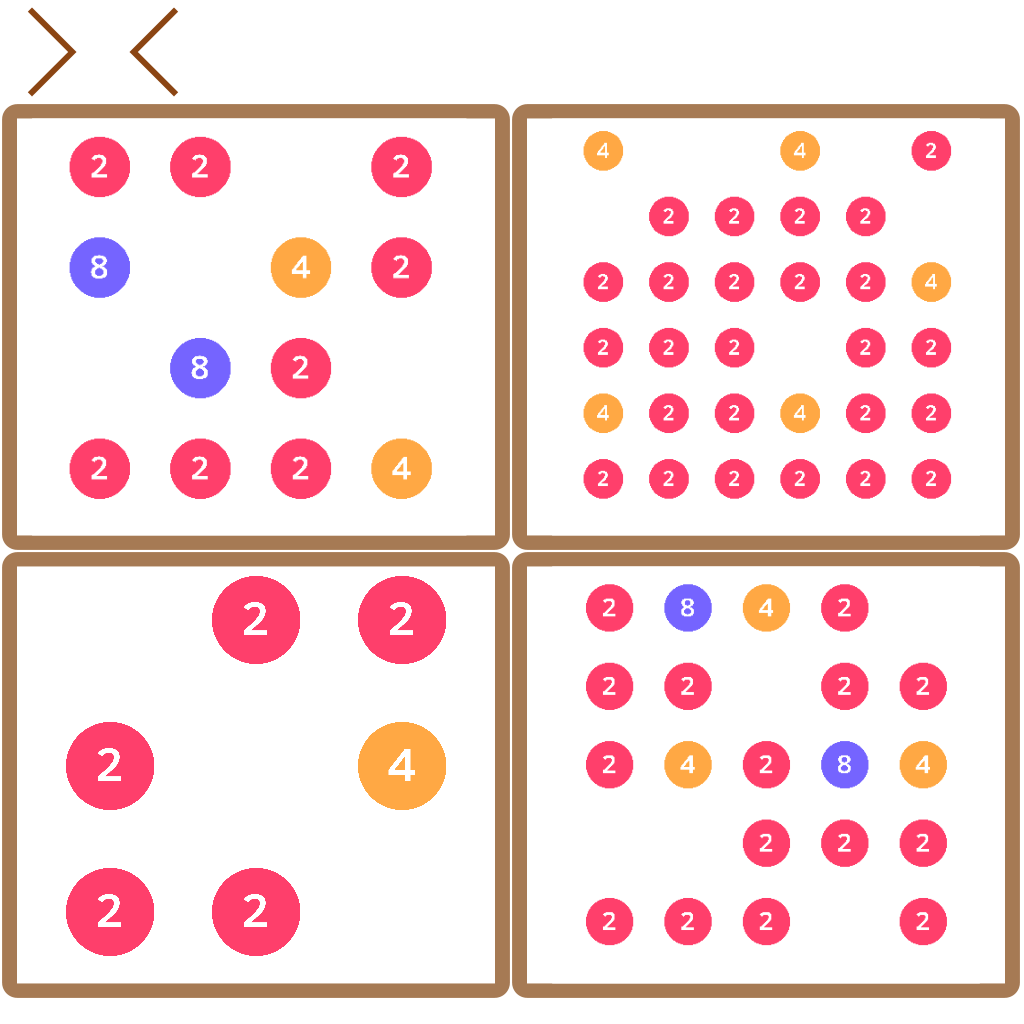
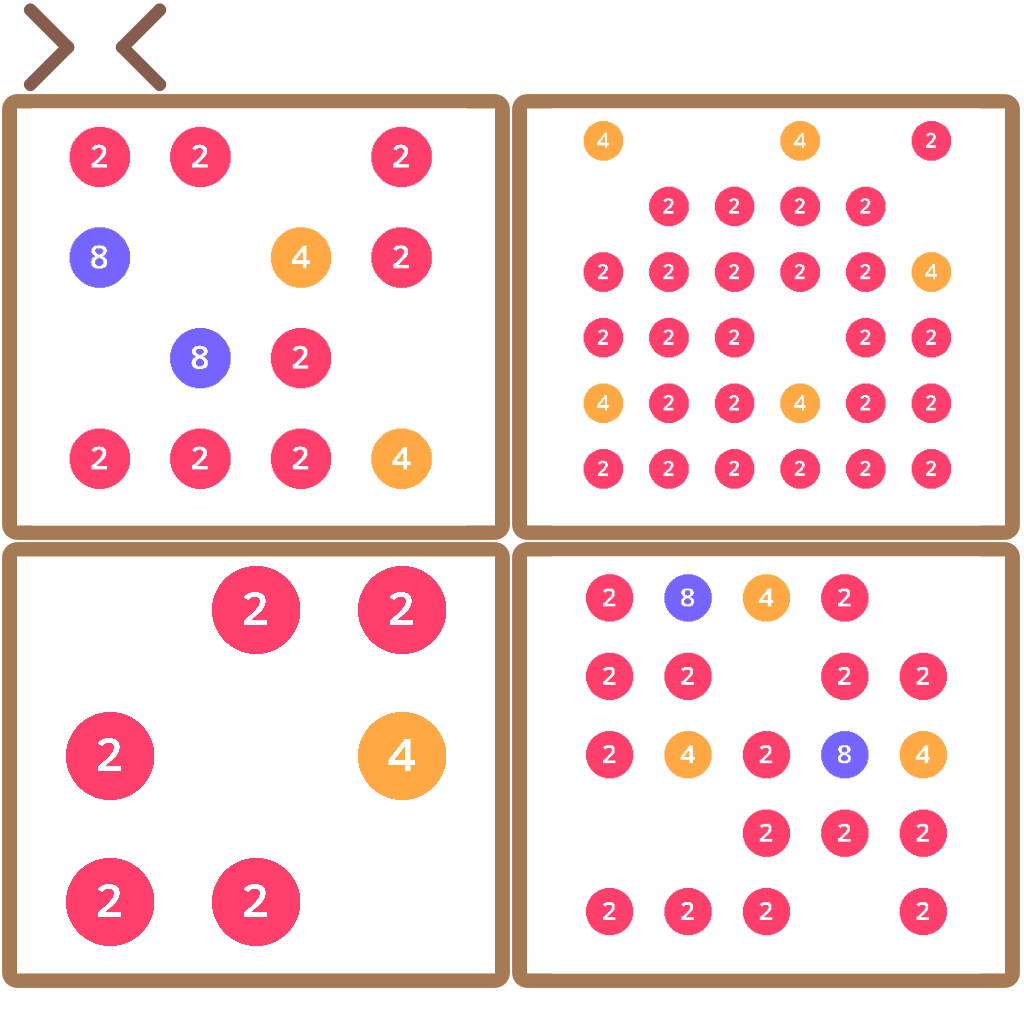
Update menu + Editing Score Screen

Changed region(s): [[0.0, 0.0, 1.0, 1.0], [0.3438, 0.6875, 0.4375, 0.8125], [0.0625, 0.2188, 0.125, 0.3125]]

diff --git a/core/src/com/gdx/game2048/screen/ScoreScreen.java b/core/src/com/gdx/game2048/screen/ScoreScreen.java
@@ -3,7 +3,6 @@ package com.gdx.game2048.screen;
 
 import com.badlogic.gdx.Gdx;
 import com.badlogic.gdx.Input;
-import com.badlogic.gdx.audio.Music;
 import com.badlogic.gdx.graphics.Color;
 import com.badlogic.gdx.graphics.g2d.BitmapFont;
 import com.badlogic.gdx.graphics.g2d.SpriteBatch;
@@ -23,10 +22,10 @@ import javafx.util.Pair;
 import java.util.ArrayList;
 import java.util.LinkedHashMap;
 
-public class MenuScreen extends AbstractScreen {
+public class ScoreScreen extends AbstractScreen {
 
     //Tag for debug
-    private static final String TAG = MenuScreen.class.getSimpleName();
+    private static final String TAG = ScoreScreen.class.getSimpleName();
 
     //Animation constant
     public static final int BASE_ANIMATION_TIME = 100;
@@ -40,10 +39,7 @@ public class MenuScreen extends AbstractScreen {
 
     private TextureAtlas gameAtlas;
 
-    private com.badlogic.gdx.scenes.scene2d.ui.Button nextLevelButton;
-    private com.badlogic.gdx.scenes.scene2d.ui.Button preLevelButton;
-    private com.badlogic.gdx.scenes.scene2d.ui.Button nextAIButton;
-    private com.badlogic.gdx.scenes.scene2d.ui.Button preAIButton;
+    private Button backButton;
     private Image imageLevel;
 
     private int iconPaddingSize;
@@ -75,22 +71,11 @@ public class MenuScreen extends AbstractScreen {
     public void buildStage() {
         batch = new SpriteBatch();
 
-        levelInfo = new LinkedHashMap<Integer, Pair<String, String>>();
-        levelInfo.put(3, new Pair<String, String>("3x3", "3x3"));
-        levelInfo.put(4, new Pair<String, String>("4x4", "4x4"));
-        levelInfo.put(5, new Pair<String, String>("5x5", "5x5"));
-        levelInfo.put(6, new Pair<String, String>("6x6", "6x6"));
-
-        aiInfo = new LinkedHashMap<Integer, String>();
-        aiInfo.put(1, "Dump AI");
-        aiInfo.put(2, "Smart AI");
-        aiInfo.put(3, "Crazy AI");
-
         //Loading asset
         fontGenerator = new FreeTypeFontGenerator(Gdx.files.internal("fonts/ClearSans-Bold.ttf"));
         fontParameter = new FreeTypeFontGenerator.FreeTypeFontParameter();
         //Step 2: TextureAtlas with atlas path
-        gameAtlas = new TextureAtlas("themes/menu.atlas");
+        gameAtlas = new TextureAtlas("themes/score.atlas");
 
         //Step 3: create skin
         gameSkin = new Skin(gameAtlas);
@@ -99,10 +84,7 @@ public class MenuScreen extends AbstractScreen {
         createButton();
 
         //Step 6: add to stage
-        this.addActor(nextLevelButton);
-        this.addActor(preLevelButton);
-        this.addActor(nextAIButton);
-        this.addActor(preAIButton);
+        this.addActor(backButton);
         this.addActor(imageLevel);
 
         for (TextButton line :
@@ -147,17 +129,8 @@ public class MenuScreen extends AbstractScreen {
         float rootLine = height* 0.54f;
         float linePadding = height* 0.1f;
 
-        nextLevelButton.setPosition(screenMidX + buttonPaddingMidX - iconSize_Width/2 , rootLine, Align.center);
-        nextLevelButton.setSize(iconSize_Width, iconSize_Height);
-
-        preLevelButton.setPosition(screenMidX - buttonPaddingMidX + iconSize_Width/2 , rootLine, Align.center);
-        preLevelButton.setSize(iconSize_Width, iconSize_Height);
-
-        nextAIButton.setPosition(screenMidX + buttonPaddingMidX*1.3f - iconSize_Width/2  , rootLine - linePadding*2, Align.center);
-        nextAIButton.setSize(iconSize_Width, iconSize_Height);
-
-        preAIButton.setPosition(screenMidX - buttonPaddingMidX*1.3f + iconSize_Width/2  , rootLine - linePadding*2, Align.center);
-        preAIButton.setSize(iconSize_Width, iconSize_Height);
+        backButton.setPosition(screenMidX + buttonPaddingMidX - iconSize_Width/2 , rootLine, Align.center);
+        backButton.setSize(iconSize_Width, iconSize_Height);
 
         imageLevel.setSize(imageSize, imageSize);
         imageLevel.setPosition(width*0.5f , height*0.78f, Align.center);
@@ -220,39 +193,14 @@ public class MenuScreen extends AbstractScreen {
     private void createButton() {
 
         //Step 4: create button
-        nextLevelButton = new com.badlogic.gdx.scenes.scene2d.ui.Button(gameSkin.getDrawable("ic_next"), gameSkin.getDrawable("ic_next"));
-        preLevelButton = new com.badlogic.gdx.scenes.scene2d.ui.Button(gameSkin.getDrawable("ic_pre"), gameSkin.getDrawable("ic_pre"));
-        nextAIButton = new com.badlogic.gdx.scenes.scene2d.ui.Button(gameSkin.getDrawable("ic_next"), gameSkin.getDrawable("ic_next"));
-        preAIButton = new Button(gameSkin.getDrawable("ic_pre"), gameSkin.getDrawable("ic_pre"));
-        imageLevel = new Image(gameSkin.getDrawable(levelInfo.get(curLevel).getValue()));
+        imageLevel = new Image(gameSkin.getDrawable("high_score"));
 
         //Step 5: add event
-        nextLevelButton.addListener(new ClickListener(){
+        backButton.addListener(new ClickListener(){
             @Override
             public void clicked(InputEvent event, float x, float y) {
                 super.clicked(event, x, y);
                 nextLevel();
-            }
-        });
-        preLevelButton.addListener(new ClickListener(){
-            @Override
-            public void clicked(InputEvent event, float x, float y) {
-                super.clicked(event, x, y);
-                preLevel();
-            }
-        });
-        nextAIButton.addListener(new ClickListener(){
-            @Override
-            public void clicked(InputEvent event, float x, float y) {
-                super.clicked(event, x, y);
-                nextAI();
-            }
-        });
-        preAIButton.addListener(new ClickListener(){
-            @Override
-            public void clicked(InputEvent event, float x, float y) {
-                super.clicked(event, x, y);
-                preAI();
             }
         });
 

diff --git a/core/src/com/gdx/game2048/manager/TimeUtils.java b/core/src/com/gdx/game2048/manager/TimeUtils.java
@@ -1,0 +1,124 @@
+package com.gdx.game2048.manager;
+
+
+import java.text.ParseException;
+import java.text.SimpleDateFormat;
+import java.util.Calendar;
+import java.util.Date;
+import java.util.concurrent.TimeUnit;
+
+/**
+ * Create By Phan Huu Chi on 4/2018
+ */
+public class TimeUtils {
+    public static final SimpleDateFormat fullDateFormat = new SimpleDateFormat("yyyy-MM-dd HH:mm:ss");
+
+    public static final SimpleDateFormat userDateFormat = new SimpleDateFormat("EEEE dd MMMM yyyy");
+    public static final SimpleDateFormat userTimeFormat = new SimpleDateFormat("HH:mm");
+    public static final SimpleDateFormat userDateTimeFormat = new SimpleDateFormat("EEEE dd MMMM, HH:mm");
+
+
+    public static String getCurrentTimeAsString() {
+        Calendar c = Calendar.getInstance();
+        return  fullDateFormat.format(c.getTime());
+    }
+
+    public static Date getCurrentTimeAsDate() {
+        Calendar c = Calendar.getInstance();
+        return  c.getTime();
+    }
+
+    // Convert
+
+    public static Date strToDate(String string) {
+        Calendar cal = Calendar.getInstance();
+        try {
+            cal.setTime(fullDateFormat.parse(string));
+        } catch (ParseException e) {
+            e.printStackTrace();
+            return null;
+        }
+        return cal.getTime();
+    }
+
+    public static String dateToStr(Date date) {
+        return fullDateFormat.format(date);
+    }
+
+    /**
+     * User string mean a String of date that User can easily read
+     */
+    public static String dateToUserDateStr(Date date) {
+        Calendar cal = Calendar.getInstance();
+        cal.setTime(date);
+        return userDateFormat.format(cal.getTime());
+    }
+    public static String dateToUserDateStr(int day, int month, int year) {
+        Calendar cal = Calendar.getInstance();
+        cal.set(year,month,day);
+        return dateToUserDateStr(cal.getTime());
+    }
+    public static String curDateToUserDateStr() {
+        Calendar cal = Calendar.getInstance();
+        return dateToUserDateStr(cal.getTime());
+    }
+
+    public static String timeToUserTimeStr(int hourOfDay, int minute) {
+        return String.format("%02d:%02d",hourOfDay,minute);
+    }
+    public static String timeToUserTimeStr(Date date) {
+        return userTimeFormat.format(date);
+    }
+    public static String curTimeToUserTimeStr() {
+        Calendar cal = Calendar.getInstance();
+        return userTimeFormat.format(cal.getTime());
+    }
+    public static String curTimeToUserTimeStr(int plusMinute) {
+        Calendar cal = Calendar.getInstance();
+        cal.add(Calendar.MINUTE, plusMinute);
+        return userTimeFormat.format(cal.getTime());
+    }
+    public static String dateToUserDateTimeStr(Date date) {
+        return userDateTimeFormat.format(date);
+    }
+    public static String dateToUserDateTimeStr(String date) {
+        return userDateTimeFormat.format(strToDate(date));
+    }
+    // Func
+
+    /**
+     * @return -1 == checkTime before Now( checkTime in pass )
+     * @return 0 ==
+     * @return 1 == checkTime after Now   ( checkTime in feature )
+     * note : >=0 valid
+     */
+    public static int compareWithNow(Date checkTime) {
+        return checkTime.compareTo(getCurrentTimeAsDate());
+    }
+    public static int compareWithNow(String checkTime) {
+        return compareWithNow(strToDate(checkTime));
+    }
+
+    /**
+     * Calculate time have pass from checkT
+     * @return second = now - lastTime
+     */
+    public static long getPassTime(String lastTime) {
+        long difference = getCurrentTimeAsDate().getTime() - strToDate(lastTime).getTime();
+        return TimeUnit.MILLISECONDS.toSeconds(difference);
+    }
+
+    public static long getPassTime(Date startTime, Date endTime) {
+        long difference = startTime.getTime() - endTime.getTime();
+        return TimeUnit.MILLISECONDS.toSeconds(difference);
+    }
+
+    public static boolean checkTimeOut(long checkAmountSec, String lastTimeCheck) {
+        long secondsPass = TimeUtils.getPassTime(lastTimeCheck);
+
+        if( secondsPass > checkAmountSec)
+            return true;
+        return false;
+    }
+
+}

diff --git a/core/src/com/gdx/game2048/screen/GameScreen.java b/core/src/com/gdx/game2048/screen/GameScreen.java
@@ -2,7 +2,6 @@ package com.gdx.game2048.screen;
 
 import com.badlogic.gdx.Gdx;
 import com.badlogic.gdx.Input;
-import com.badlogic.gdx.audio.Music;
 import com.badlogic.gdx.graphics.Color;
 import com.badlogic.gdx.graphics.g2d.BitmapFont;
 import com.badlogic.gdx.graphics.g2d.SpriteBatch;
@@ -10,14 +9,13 @@ import com.badlogic.gdx.graphics.g2d.TextureAtlas;
 import com.badlogic.gdx.graphics.g2d.freetype.FreeTypeFontGenerator;
 import com.badlogic.gdx.math.Rectangle;
 import com.badlogic.gdx.scenes.scene2d.InputEvent;
-import com.badlogic.gdx.scenes.scene2d.Stage;
 import com.badlogic.gdx.scenes.scene2d.ui.Button;
 import com.badlogic.gdx.scenes.scene2d.ui.Skin;
 import com.badlogic.gdx.scenes.scene2d.ui.TextButton;
 import com.badlogic.gdx.scenes.scene2d.utils.ClickListener;
 import com.badlogic.gdx.utils.Align;
-import com.badlogic.gdx.utils.viewport.ScreenViewport;
 import com.gdx.game2048.logic.GameLogic;
+import com.gdx.game2048.manager.MusicManager;
 import com.gdx.game2048.model.animation.AnimationCell;
 import com.gdx.game2048.model.animation.AnimationType;
 import com.gdx.game2048.model.data.Tile;
@@ -69,9 +67,6 @@ public class GameScreen extends AbstractScreen {
     private long lastFPSTime = System.currentTimeMillis();
     public boolean refreshLastTime = false;
 
-    //Music
-    public Music mainTheme;
-
     //Batch for drawing;
     private SpriteBatch batch;
 
@@ -113,7 +108,6 @@ public class GameScreen extends AbstractScreen {
             autoPlay.start();
         }
         //Loading asset
-        mainTheme = Gdx.audio.newMusic(Gdx.files.internal("music/maintheme.mp3"));
         fontGenerator = new FreeTypeFontGenerator(Gdx.files.internal("fonts/ClearSans-Bold.ttf"));
         fontParameter = new FreeTypeFontGenerator.FreeTypeFontParameter();
         gameAtlas = new TextureAtlas("themes/default.atlas");
@@ -132,7 +126,7 @@ public class GameScreen extends AbstractScreen {
         Gdx.input.setInputProcessor(this);
 
         //Playing music
-        mainTheme.play();
+        MusicManager.getInstance().playMain();
     }
 
     @Override

diff --git a/core/src/com/gdx/game2048/manager/MusicManager.java b/core/src/com/gdx/game2048/manager/MusicManager.java
@@ -1,0 +1,54 @@
+package com.gdx.game2048.manager;
+
+import com.badlogic.gdx.Gdx;
+import com.badlogic.gdx.audio.Music;
+
+import java.util.HashMap;
+
+public class MusicManager {
+    private static MusicManager instance;
+    private Music mainTheme;
+    private boolean mute;
+
+    private static String muteAsText;
+    private HashMap<String, Music> listMusic = new HashMap<>();
+
+
+    public static MusicManager getInstance() {
+        if (instance == null) {
+            instance = new MusicManager();
+            instance.loadResource();
+            instance.mute = true;
+        }
+        return instance;
+    }
+
+    public boolean isMute() {
+        return mute;
+    }
+
+    public String getMuteAsText() {
+        if (mute)
+            return "OFF";
+        return "ON";
+    }
+
+    private void loadResource() {
+        mainTheme = Gdx.audio.newMusic(Gdx.files.internal("music/maintheme.mp3"));
+
+        listMusic.put("menu_change", Gdx.audio.newMusic(Gdx.files.internal("music/menu_change.mp3")));
+        listMusic.put("menu_select", Gdx.audio.newMusic(Gdx.files.internal("music/menu_select.mp3")));
+    }
+
+    public void playMain() {
+        if (! mute) {
+            mainTheme.play();
+        }
+    }
+
+    public void mute(boolean b) {
+        mute = b;
+
+
+    }
+}

diff --git a/core/src/com/gdx/game2048/screen/ScreenEnum.java b/core/src/com/gdx/game2048/screen/ScreenEnum.java
@@ -7,6 +7,11 @@ public enum ScreenEnum {
             return new MenuScreen();
         }
     },
+    SCORE {
+        public AbstractScreen getScreen(Object... params) {
+            return new ScoreScreen();
+        }
+    },
     GAME{
         @Override
         public AbstractScreen getScreen(Object... params) {

diff --git a/core/src/com/gdx/game2048/manager/ScoreManager.java b/core/src/com/gdx/game2048/manager/ScoreManager.java
@@ -1,0 +1,15 @@
+package com.gdx.game2048.manager;
+
+public class ScoreManager {
+    private static ScoreManager instance;
+
+    public static ScoreManager getInstance() {
+        if (instance == null) {
+            instance = new ScoreManager();
+
+        }
+        return instance;
+    }
+
+
+}

diff --git a/core/src/com/gdx/game2048/MainGame.java b/core/src/com/gdx/game2048/MainGame.java
@@ -8,6 +8,6 @@ public class MainGame extends Game {
     @Override
     public void create() {
         ScreenManager.getInstance().initialize(this);
-        ScreenManager.getInstance().showScreen(ScreenEnum.MAIN_MENU);
+        ScreenManager.getInstance().showScreen(ScreenEnum.SCORE);
     }
 }
